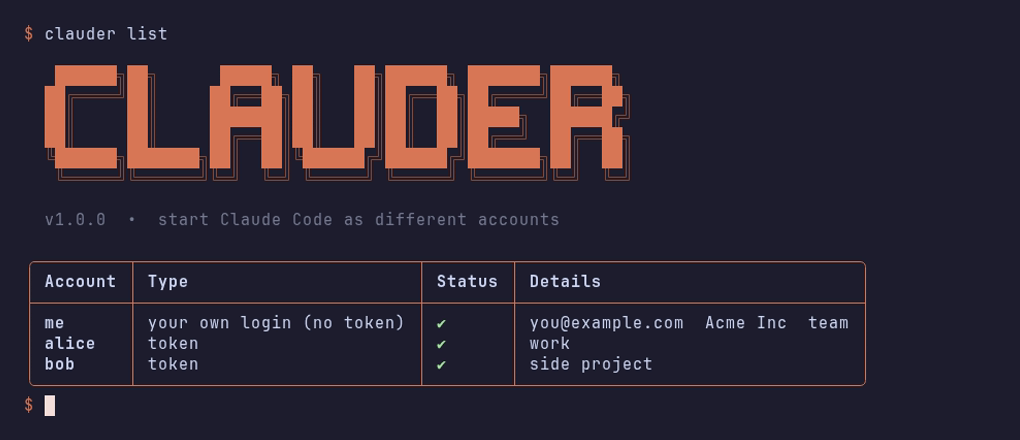
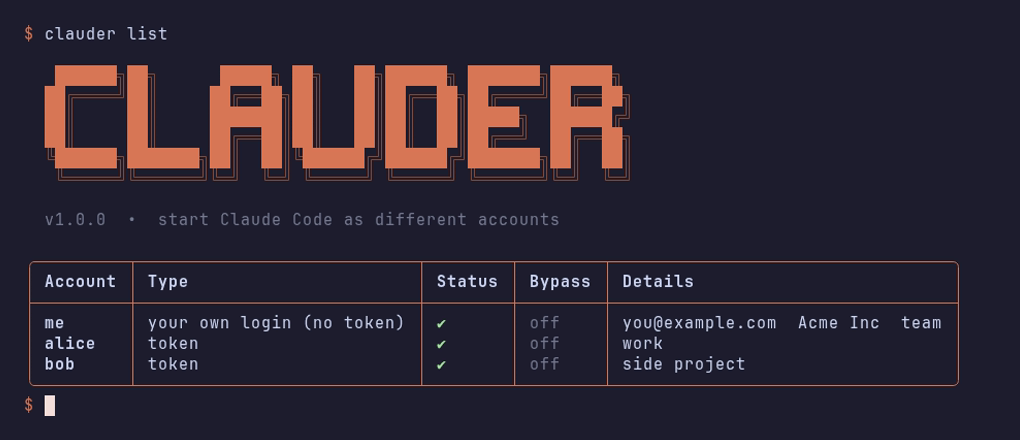
Add bypass permissions switch per account, with a checkbox list
- clauder bypass: checkbox list (space to check, enter to save, esc to cancel)
- clauder bypass <name> [on|off] and the b key in the menu
- Accounts with bypass on start claude with --dangerously-skip-permissions
  unless the caller passes --permission-mode
- list shows a Bypass column; menu tags those accounts
- Shared key handling for the menu and the checklist
- New bypass.gif, re-recorded demos, README section

Changed region(s): [[0.5167, 0.7091, 0.851, 0.8568], [0.851, 0.5909, 0.9422, 0.8864], [0.5167, 0.6205, 0.699, 0.65]]

diff --git a/bin/clauder.js b/bin/clauder.js
@@ -151,18 +151,37 @@ function hasExe() {
   return dirs.some(d => d && fs.existsSync(path.join(d, 'claude.exe')));
 }
 
+// ---------- bypass permissions ----------
+
+const BYPASS_FLAG = '--dangerously-skip-permissions';
+
+// Per-account switch. Token accounts keep it on their entry, your own login under "me".
+function getBypass(db, name) {
+  const entry = name === OWN ? db.me : db.accounts[name];
+  return !!(entry && entry.bypass);
+}
+
+function setBypass(db, name, on) {
+  const entry = name === OWN ? (db.me = db.me || {}) : db.accounts[name];
+  if (on) entry.bypass = true;
+  else delete entry.bypass;
+}
+
 function launch(name, claudeArgs) {
   const env = { ...process.env };
   delete env.CLAUDE_CODE_OAUTH_TOKEN;
+  const db = load();
   if (name !== OWN) {
-    const db = load();
     const acc = db.accounts[name];
     if (!acc) die(`no account named "${name}". See: clauder list`);
     env.CLAUDE_CODE_OAUTH_TOKEN = acc.token;
     acc.lastUsedAt = new Date().toISOString();
     save(db);
   }
-  console.error(`> claude (${name})`);
+  // add the flag unless the caller already chose a permission mode
+  const chosen = claudeArgs.some(a => a === BYPASS_FLAG || a.startsWith('--permission-mode'));
+  if (getBypass(db, name) && !chosen) claudeArgs = [BYPASS_FLAG, ...claudeArgs];
+  console.error(`> claude (${name})` + (claudeArgs.includes(BYPASS_FLAG) ? yellow('  ⚠ bypass permissions on') : ''));
   const child = spawn('claude', claudeArgs, {
     stdio: 'inherit',
     env,
@@ -203,8 +222,30 @@ async function cmdAdd(name) {
   console.log(`added: ${name}  ->  clauder ${name}`);
 }
 
+async function cmdBypass(name, value) {
+  if (!name) {
+    if (!(process.stdin.isTTY && process.stdout.isTTY)) die('usage: clauder bypass <name> [on|off]');
+    const db = load();
+    const names = [OWN, ...Object.keys(db.accounts)];
+    const checked = await checkBypass(names, db);
+    if (checked === null) return console.log(dim('cancelled, nothing changed.'));
+    names.forEach(n => setBypass(db, n, checked.has(n)));
+    save(db);
+    const on = names.filter(n => checked.has(n));
+    return console.log('bypass permissions on: ' + (on.length ? yellow(on.join(', ')) : dim('none')));
+  }
+  const db = load();
+  if (name !== OWN && !db.accounts[name]) die(`no account named "${name}". See: clauder list`);
+  if (value && value !== 'on' && value !== 'off') die('use on or off.');
+  const on = value ? value === 'on' : !getBypass(db, name);
+  setBypass(db, name, on);
+  save(db);
+  console.log(`${name}: bypass permissions ` + (on ? yellow('on') + dim(`  (claude starts with ${BYPASS_FLAG})`) : 'off'));
+}
+
 function cmdList() {
-  const accs = load().accounts;
+  const db = load();
+  const accs = db.accounts;
   const names = [OWN, ...Object.keys(accs)];
   const rows = names.map(name => {
     const own = name === OWN;
@@ -219,11 +260,12 @@ function cmdList() {
       { t: name, s: bold(name) },
       own ? 'your own login (no token)' : 'token',
       state,
+      getBypass(db, name) ? { t: '⚠ on', s: yellow('⚠ on') } : { t: 'off', s: dim('off') },
       details.filter(Boolean).join('  '),
     ];
   });
   banner();
-  table(['Account', 'Type', 'Status', 'Details'], rows);
+  table(['Account', 'Type', 'Status', 'Bypass', 'Details'], rows);
   if (names.length === 1) console.log(dim('\n  no token accounts yet. Add one with: clauder add <name>'));
 }
 
@@ -248,72 +290,119 @@ function cmdRename(from, to) {
   console.log(`${from} -> ${to}`);
 }
 
-// Arrow-key picker in the style of Claude Code. Resolves to a name, ADD, or null (quit).
-const ADD = Symbol('add');
-function pickAccount(names, accs) {
+// ---------- interactive screens ----------
+
+// Redraws render() in place and feeds keys to onKey(str, key, state) until it calls state.done(value).
+// state.sel is the highlighted row; arrows, j/k, home/end and 1-9 move it.
+function interactive(count, render, onKey) {
   return new Promise(resolve => {
     const out = process.stdout;
-    const nameW = Math.max(...names.map(n => n.length));
-    const maxHint = Math.max(20, (out.columns || 80) - nameW - 12);
-    let sel = 0;
+    const state = { sel: 0 };
     let drawn = 0;
 
-    const render = () => {
-      const rows = names.map((n, k) => {
-        let hint = n === OWN ? 'your own login (no token)' : 'token' + (accs[n].note ? ' · ' + accs[n].note : '');
-        if (hint.length > maxHint) hint = hint.slice(0, maxHint - 1) + '…';
-        const label = `${k + 1}. ${n.padEnd(nameW)}`;
-        return k === sel
-          ? brand('❯ ') + bold(brand(label)) + '  ' + dim(hint)
-          : '  ' + label + '  ' + dim(hint);
-      });
-      return [bold('Which account?'), '', ...rows, '', dim('↑/↓ move · enter start · a add account · esc quit')];
-    };
     const draw = () => {
-      if (drawn) out.write(`\x1b[${drawn}A\x1b[J`); // back to the top of the menu, clear below
-      const lines = render();
+      if (drawn) out.write(`\x1b[${drawn}A\x1b[J`); // back to the top of the screen, clear below
+      const lines = render(state);
       out.write(lines.join('\n') + '\n');
       drawn = lines.length;
     };
-    const finish = value => {
-      process.stdin.removeListener('keypress', onKey);
+    state.redraw = draw;
+    state.done = value => {
+      process.stdin.removeListener('keypress', handler);
       process.stdin.setRawMode(false);
       process.stdin.pause();
       out.write('\x1b[?25h'); // show cursor
       resolve(value);
     };
-    const onKey = (str, key = {}) => {
-      if (key.ctrl && key.name === 'c') return finish(null);
+    const handler = (str, key = {}) => {
+      if (key.ctrl && key.name === 'c') return state.done(null);
       switch (key.name) {
-        case 'up': case 'k': sel = (sel - 1 + names.length) % names.length; return draw();
-        case 'down': case 'j': sel = (sel + 1) % names.length; return draw();
-        case 'home': sel = 0; return draw();
-        case 'end': sel = names.length - 1; return draw();
-        case 'return': case 'enter': return finish(names[sel]);
-        case 'escape': case 'q': return finish(null);
-        case 'a': return finish(ADD);
+        case 'up': case 'k': state.sel = (state.sel - 1 + count) % count; return draw();
+        case 'down': case 'j': state.sel = (state.sel + 1) % count; return draw();
+        case 'home': state.sel = 0; return draw();
+        case 'end': state.sel = count - 1; return draw();
+        case 'escape': case 'q': return state.done(null);
       }
-      if (/^[1-9]$/.test(str || '') && +str <= names.length) { sel = +str - 1; return draw(); }
+      if (/^[1-9]$/.test(str || '') && +str <= count) { state.sel = +str - 1; return draw(); }
+      onKey(str, key, state);
     };
 
     readline.emitKeypressEvents(process.stdin);
     process.stdin.setRawMode(true);
     process.stdin.resume();
     process.on('exit', () => out.write('\x1b[?25h'));
-    out.write('\x1b[?25l'); // hide cursor while picking
-    process.stdin.on('keypress', onKey);
+    out.write('\x1b[?25l'); // hide cursor while the screen is up
+    process.stdin.on('keypress', handler);
     draw();
   });
 }
 
+function accountHint(db, n, max) {
+  let hint = n === OWN ? 'your own login (no token)' : 'token' + (db.accounts[n].note ? ' · ' + db.accounts[n].note : '');
+  return hint.length > max ? hint.slice(0, max - 1) + '…' : hint;
+}
+
+// Arrow-key picker in the style of Claude Code. Resolves to a name, ADD, or null (quit).
+const ADD = Symbol('add');
+function pickAccount(names, db) {
+  const nameW = Math.max(...names.map(n => n.length));
+  const maxHint = Math.max(20, (process.stdout.columns || 80) - nameW - 12);
+  const render = ({ sel }) => [
+    bold('Which account?'), '',
+    ...names.map((n, k) => {
+      const label = `${k + 1}. ${n.padEnd(nameW)}`;
+      const hint = dim(accountHint(db, n, maxHint));
+      const tag = getBypass(db, n) ? '  ' + yellow('⚠ bypass') : '';
+      return (k === sel ? brand('❯ ') + bold(brand(label)) : '  ' + label) + '  ' + hint + tag;
+    }),
+    '', dim('↑/↓ move · enter start · b bypass permissions on/off · a add account · esc quit'),
+  ];
+  return interactive(names.length, render, (str, key, s) => {
+    if (key.name === 'return' || key.name === 'enter') return s.done(names[s.sel]);
+    if (key.name === 'a') return s.done(ADD);
+    if (key.name === 'b') {
+      setBypass(db, names[s.sel], !getBypass(db, names[s.sel]));
+      save(db);
+      s.redraw();
+    }
+  });
+}
+
+// Checkbox list of every account. Resolves to the set of checked names, or null if cancelled.
+function checkBypass(names, db) {
+  const checked = new Set(names.filter(n => getBypass(db, n)));
+  const nameW = Math.max(...names.map(n => n.length));
+  const maxHint = Math.max(20, (process.stdout.columns || 80) - nameW - 14);
+  const render = ({ sel }) => [
+    bold('Bypass permissions'),
+    dim(`Checked accounts start claude with ${BYPASS_FLAG}.`), '',
+    ...names.map((n, k) => {
+      const box = checked.has(n) ? yellow('[✔]') : dim('[ ]');
+      const label = n.padEnd(nameW);
+      const hint = dim(accountHint(db, n, maxHint));
+      return (k === sel ? brand('❯ ') + box + ' ' + bold(brand(label)) : '  ' + box + ' ' + label) + '  ' + hint;
+    }),
+    '', dim('↑/↓ move · space check/uncheck · enter save · esc cancel'),
+  ];
+  return interactive(names.length, render, (str, key, s) => {
+    if (key.name === 'space') {
+      const n = names[s.sel];
+      if (checked.has(n)) checked.delete(n); else checked.add(n);
+      return s.redraw();
+    }
+    if (key.name === 'return' || key.name === 'enter') return s.done(checked);
+  });
+}
+
 async function cmdMenu() {
-  const accs = load().accounts;
+  const db = load();
+  const accs = db.accounts;
   const names = [OWN, ...Object.keys(accs)];
 
   if (process.stdin.isTTY && process.stdout.isTTY) {
     banner();
     console.log();
-    const choice = await pickAccount(names, accs);
+    const choice = await pickAccount(names, db);
     if (choice === null) return;
     if (choice === ADD) return cmdAdd();
     return launch(choice, []);
@@ -345,6 +434,8 @@ function help() {
   clauder ${OWN} [claude args]       start claude with your own login
   clauder add [name]             add a token (hidden input)
   clauder list                   list accounts and their login status
+  clauder bypass                 check which accounts start with ${BYPASS_FLAG}
+  clauder bypass <name> [on|off] same for one account (flips it without on/off)
   clauder remove <name>          remove an account
   clauder rename <old> <new>     rename an account
   clauder path                   print the accounts.json path
@@ -361,6 +452,7 @@ Accounts file: ${DB_FILE}`);
     case undefined: return cmdMenu();
     case 'add': return cmdAdd(rest[0]);
     case 'list': case 'ls': return cmdList();
+    case 'bypass': return cmdBypass(rest[0], rest[1]);
     case 'remove': case 'rm': return cmdRemove(rest[0]);
     case 'rename': case 'mv': return cmdRename(rest[0], rest[1]);
     case 'path': return console.log(DB_FILE);

diff --git a/README.md b/README.md
@@ -34,6 +34,7 @@ Run `clauder` with no arguments to get a menu. Move with the arrow keys and pres
 | ↑ ↓ or j k | move (wraps around) |
 | 1 to 9 | jump to that row |
 | Enter | start `claude` with the selected account |
+| b | turn bypass permissions on or off for the selected account |
 | a | add an account |
 | Esc, q or Ctrl+C | quit |
 
@@ -59,6 +60,32 @@ The token is masked while you type. The note is optional and shows up in the men
 `clauder` never checks a token itself. If one has expired or been revoked, `claude` shows the
 login error when it starts; get a fresh token and run `clauder add <name>` again.
 
+## Bypass permissions
+
+Each account has its own bypass switch, off by default. While it is on, `clauder` starts
+`claude` with `--dangerously-skip-permissions`, so Claude runs tools and edits files without
+asking first. The menu marks those accounts with a yellow `⚠ bypass` tag, and the launch line
+repeats the warning.
+
+Run `clauder bypass` to set them all at once. Space checks or unchecks the highlighted account,
+Enter saves, and Esc leaves everything as it was.
+
+![Choosing bypass accounts](docs/bypass.gif)
+
+For a single account, or in a script, name it:
+
+```sh
+clauder bypass alice on
+clauder bypass alice off
+clauder bypass alice       # flip it
+clauder bypass me on       # works for your own login too
+```
+
+Pressing `b` in the main menu flips the highlighted account too. Arguments you pass yourself take priority: if you give
+`--permission-mode` (for example `clauder alice --permission-mode plan`), `clauder` leaves the
+flag off for that run. An organization policy can disable bypass mode, and then `claude`
+refuses to start with it.
+
 ## All commands
 
 ```sh
@@ -67,6 +94,8 @@ clauder <name> [args]      # start claude as <name>, passing [args] to claude
 clauder me [args]          # start claude with your own login
 clauder add [name]         # add or replace a token
 clauder list               # accounts with their login status
+clauder bypass             # checkbox list of all accounts
+clauder bypass <name> [on|off]
 clauder rename <old> <new>
 clauder remove <name>
 clauder path               # where accounts.json lives
@@ -86,8 +115,9 @@ The file is plain JSON, so you can edit it by hand:
 ```json
 {
   "accounts": {
-    "alice": { "token": "sk-ant-oat01-...", "addedAt": "2026-11-26T10:00:00.000Z", "note": "work" }
-  }
+    "alice": { "token": "sk-ant-oat01-...", "addedAt": "2026-11-26T10:00:00.000Z", "note": "work", "bypass": true }
+  },
+  "me": { "bypass": true }
 }
 ```
 
